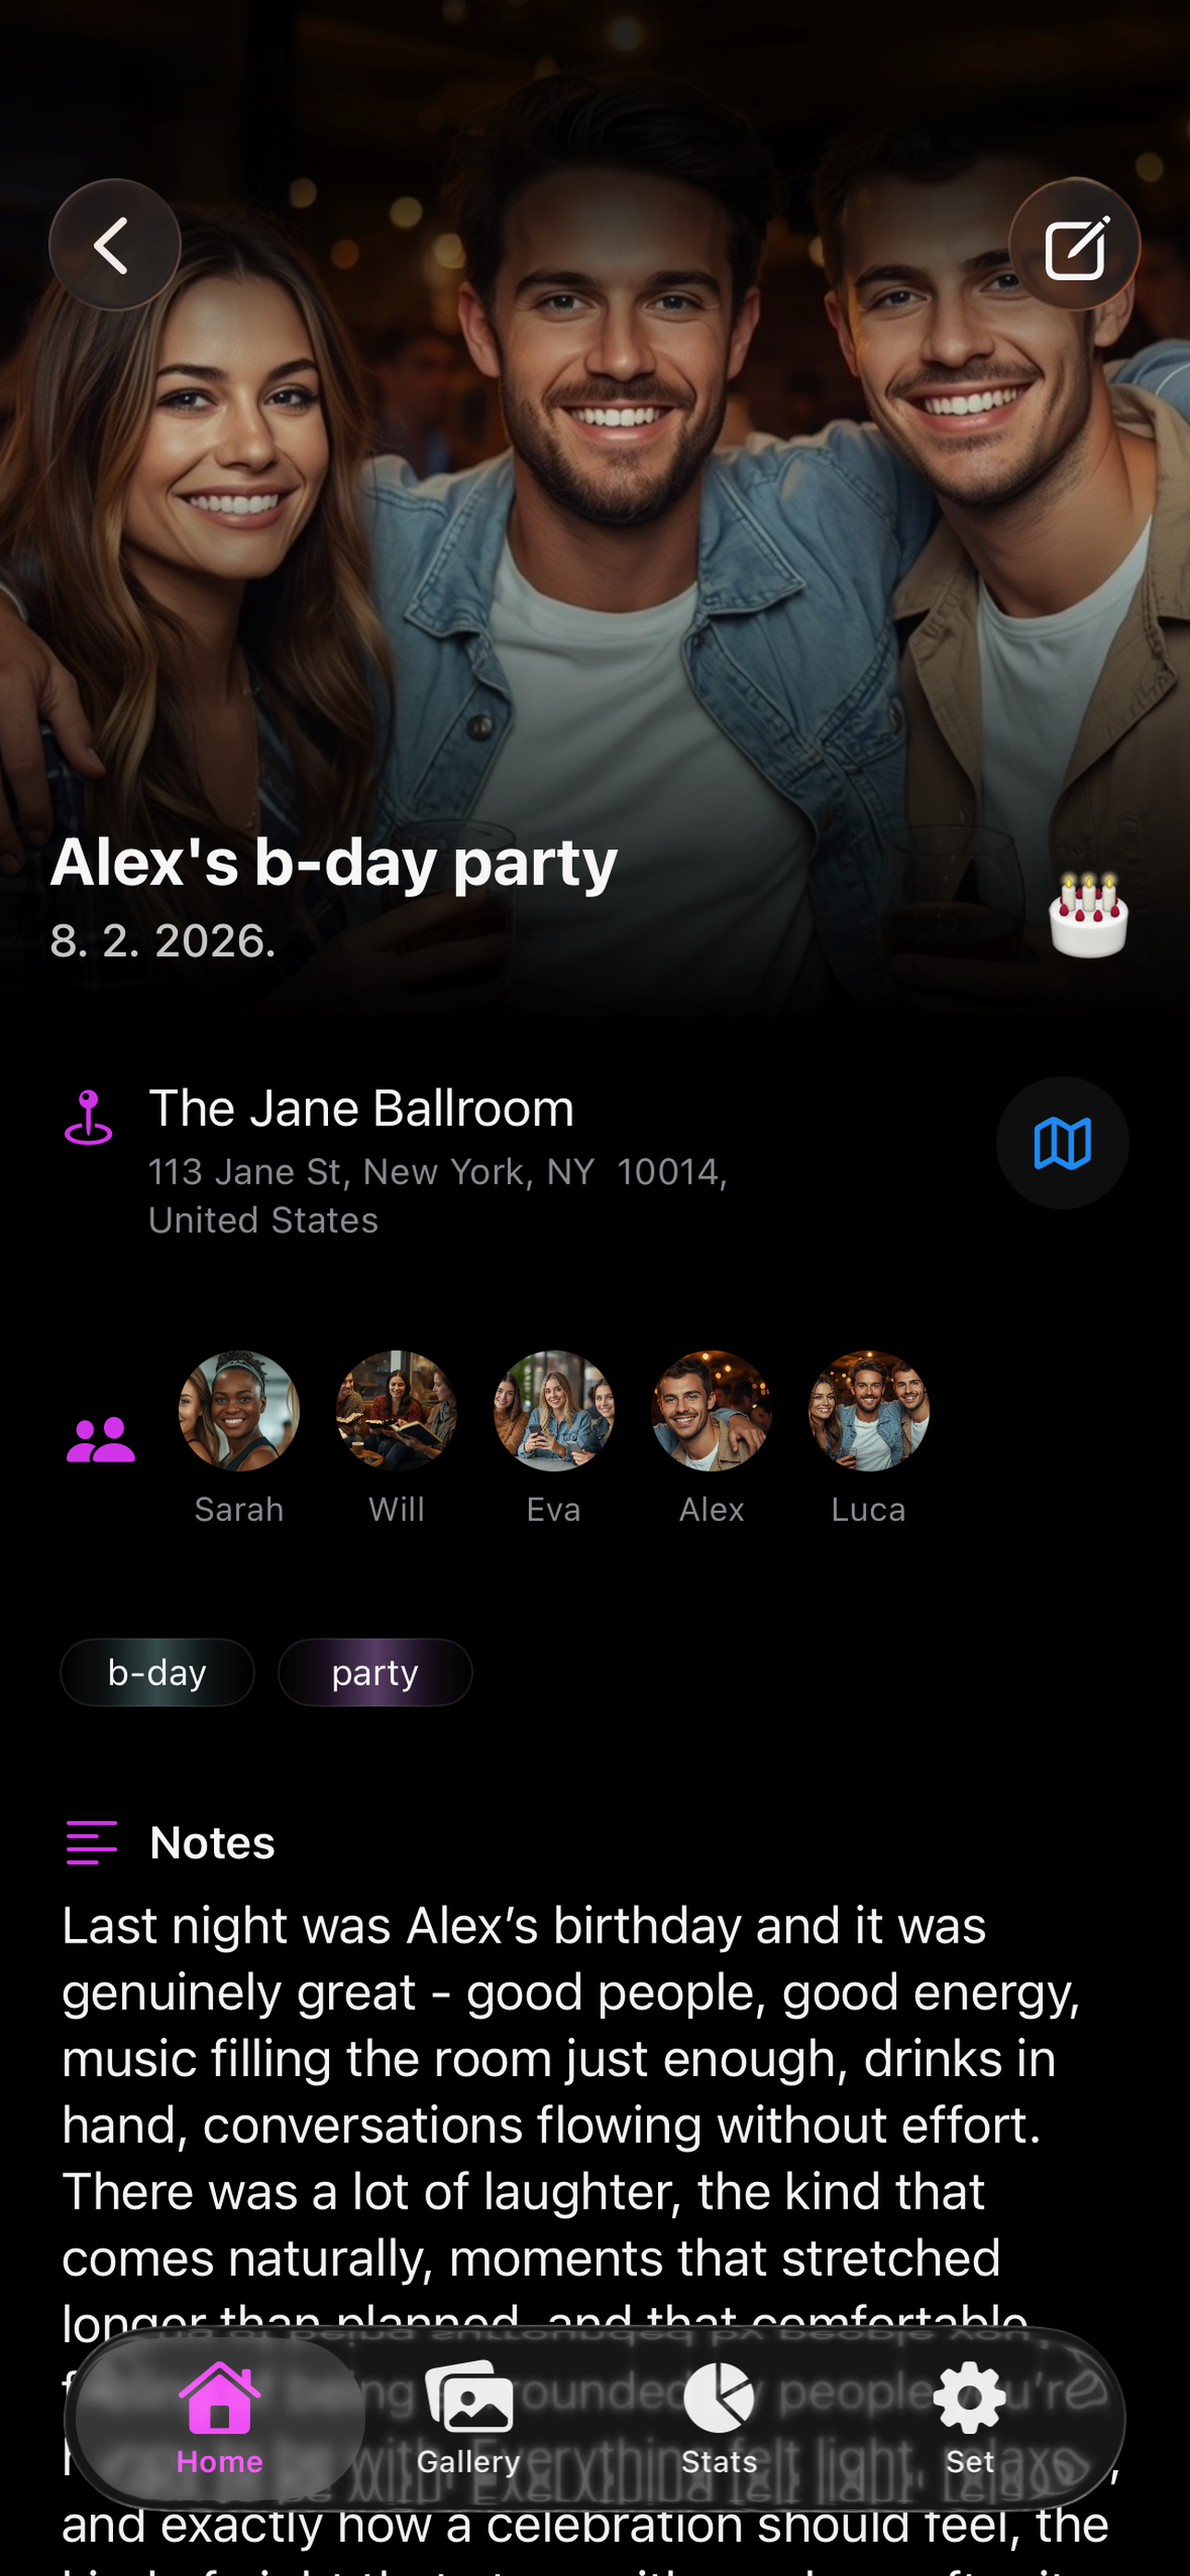
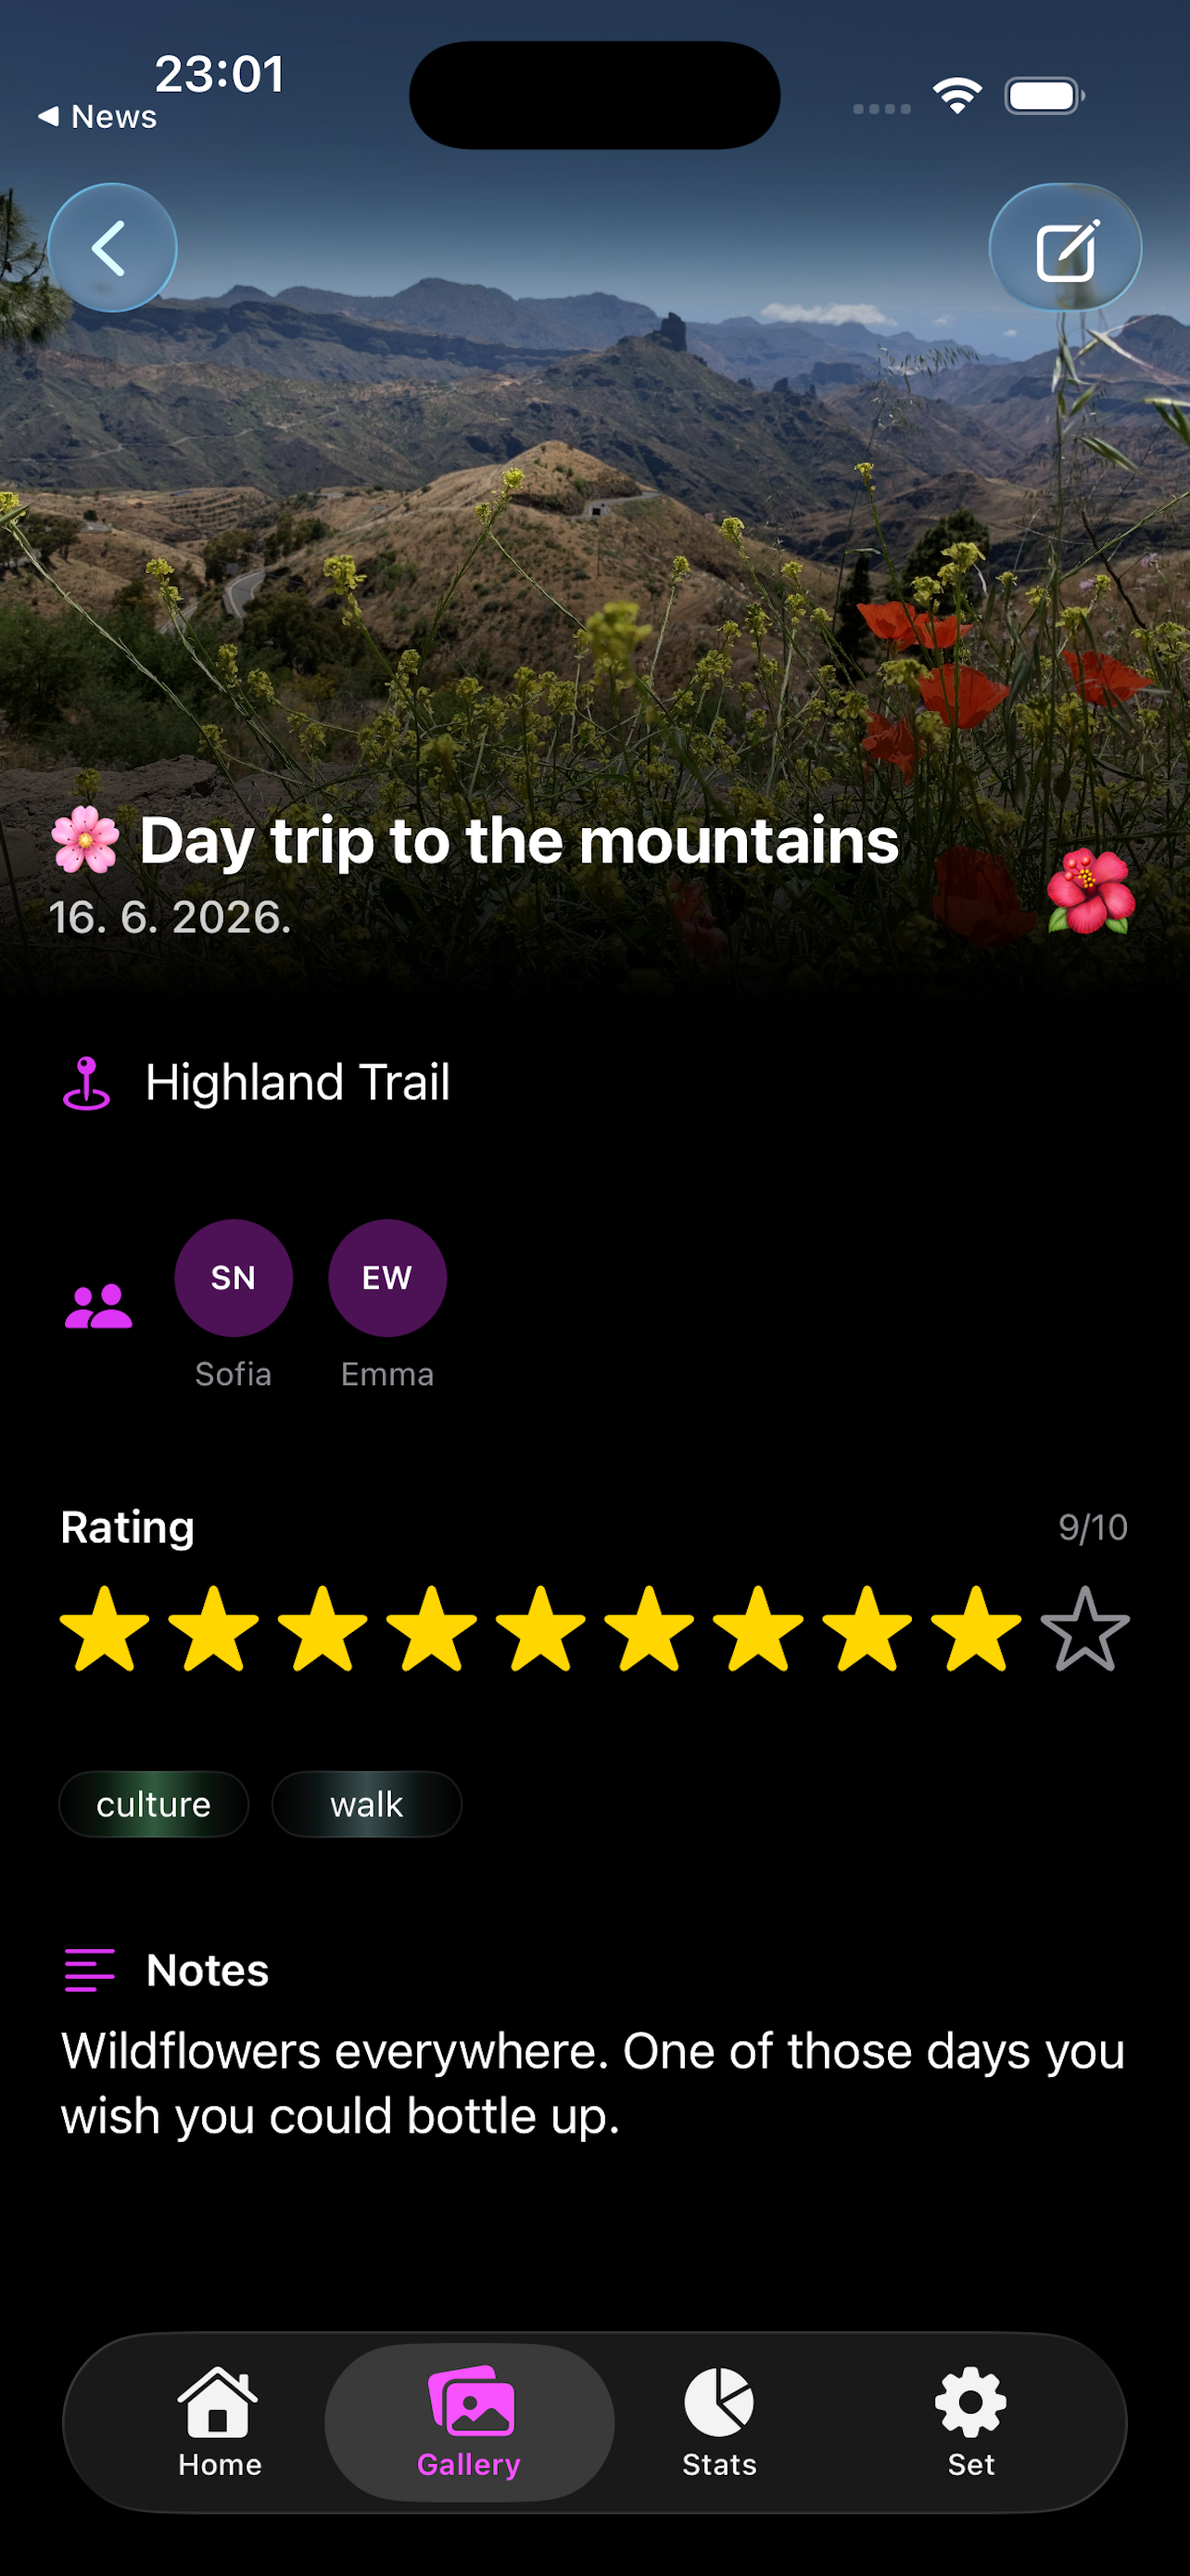
Update screenshots to showcase vibe rating feature, fix gallery grid layout
Swapped in newer screenshots showing the 1-10 vibe rating system (meetup detail,
people stats, stats overview, settings) and added two bonus gallery tiles.
Replaced the gallery's CSS-columns masonry with a plain grid since the
rotation transforms on tall phone mockups overflowed the column gap and
made the section look like an unordered pile.

diff --git a/index.html b/index.html
@@ -3,6 +3,7 @@
 <head>
     <meta charset="UTF-8">
     <meta name="google-site-verification" content="WIArLzKLhVrgi88NL-ijjHitehAWYXG4og9QnL3Act0">
+    <meta name="p:domain_verify" content="d47bdd5bb60178fb05fbc7b1d15cb7a7"/>
     <meta name="viewport" content="width=device-width, initial-scale=1.0">
 
     <!-- Primary SEO -->
@@ -173,14 +174,14 @@
                         <div class="phone-frame phone-sm">
                             <picture>
                                 <source srcset="assets/screenshots/007.webp" type="image/webp">
-                                <img src="assets/screenshots/007.png" alt="People stats showing top friends" loading="lazy" decoding="async">
+                                <img src="assets/screenshots/007.png" alt="People stats showing top friends ranked with their average vibe rating" loading="lazy" decoding="async">
                             </picture>
                         </div>
                     </div>
                     <div class="feature-copy">
                         <div class="feature-num">02</div>
                         <h3>Know your people</h3>
-                        <p>See who you spend the most time with, track when you last saw them, and notice who's slowly drifting away before it's too late.</p>
+                        <p>See who you spend the most time with, who you rate highest, and who's slowly drifting away before it's too late.</p>
                     </div>
                 </div>
 
@@ -234,19 +235,19 @@
 
                 <div class="story-card story-warm reveal">
                     <div class="story-top">
-                        <div class="story-tag">#night-walk</div>
+                        <div class="story-tag">#day-trip</div>
                         <div class="story-phone">
                             <div class="phone-frame phone-xs phone-tilt-r">
                                 <picture>
                                     <source srcset="assets/screenshots/003.webp" type="image/webp">
-                                    <img src="assets/screenshots/003.png" alt="Meetup detail screen" loading="lazy" decoding="async">
+                                    <img src="assets/screenshots/003.png" alt="Meetup detail screen with photo, notes and a 9 out of 10 vibe rating" loading="lazy" decoding="async">
                                 </picture>
                             </div>
                         </div>
                     </div>
                     <div class="story-copy">
-                        <h3>"We do this every Friday now, and I never want to forget a single one."</h3>
-                        <p>Log walks, dinners, spontaneous late-night drives - the small moments that quietly become your favorite memories.</p>
+                        <h3>"I rate every hangout now - it's wild seeing which places and people actually make the top of my list."</h3>
+                        <p>Rate the vibe, add notes, tag the moment - the small details that quietly become your favorite memories.</p>
                     </div>
                 </div>
 
@@ -257,7 +258,7 @@
                             <div class="phone-frame phone-xs phone-tilt-l">
                                 <picture>
                                     <source srcset="assets/screenshots/007.webp" type="image/webp">
-                                    <img src="assets/screenshots/007.png" alt="People stats" loading="lazy" decoding="async">
+                                    <img src="assets/screenshots/007.png" alt="People stats with vibe ratings" loading="lazy" decoding="async">
                                 </picture>
                             </div>
                         </div>
@@ -275,14 +276,14 @@
                             <div class="phone-frame phone-xs phone-tilt-r">
                                 <picture>
                                     <source srcset="assets/screenshots/005.webp" type="image/webp">
-                                    <img src="assets/screenshots/005.png" alt="Stats overview with calendar" loading="lazy" decoding="async">
+                                    <img src="assets/screenshots/005.png" alt="Stats overview with calendar and overall vibe score" loading="lazy" decoding="async">
                                 </picture>
                             </div>
                         </div>
                     </div>
                     <div class="story-copy">
                         <h3>"At the end of the year I could see my entire social life laid out like a story."</h3>
-                        <p>Streaks, top friends, favorite places, mood over time - your year, in stats that actually say something real.</p>
+                        <p>Streaks, top friends, favorite places, an average vibe score - your year, in stats that actually say something real.</p>
                     </div>
                 </div>
 
@@ -319,7 +320,7 @@
                     <div class="phone-frame phone-gallery">
                         <picture>
                             <source srcset="assets/screenshots/003.webp" type="image/webp">
-                            <img src="assets/screenshots/003.png" alt="Meetup detail view" loading="lazy" decoding="async">
+                            <img src="assets/screenshots/003.png" alt="Meetup detail view with vibe rating and notes" loading="lazy" decoding="async">
                         </picture>
                     </div>
                 </div>
@@ -335,7 +336,7 @@
                     <div class="phone-frame phone-gallery">
                         <picture>
                             <source srcset="assets/screenshots/005.webp" type="image/webp">
-                            <img src="assets/screenshots/005.png" alt="Stats overview with calendar" loading="lazy" decoding="async">
+                            <img src="assets/screenshots/005.png" alt="Stats overview with calendar and vibe score" loading="lazy" decoding="async">
                         </picture>
                     </div>
                 </div>
@@ -351,7 +352,7 @@
                     <div class="phone-frame phone-gallery">
                         <picture>
                             <source srcset="assets/screenshots/007.webp" type="image/webp">
-                            <img src="assets/screenshots/007.png" alt="People stats" loading="lazy" decoding="async">
+                            <img src="assets/screenshots/007.png" alt="People stats with vibe ratings" loading="lazy" decoding="async">
                         </picture>
                     </div>
                 </div>
@@ -375,7 +376,23 @@
                     <div class="phone-frame phone-gallery">
                         <picture>
                             <source srcset="assets/screenshots/010.webp" type="image/webp">
-                            <img src="assets/screenshots/010.png" alt="Settings screen" loading="lazy" decoding="async">
+                            <img src="assets/screenshots/010.png" alt="Settings screen with rating, money and mood tracking toggles" loading="lazy" decoding="async">
+                        </picture>
+                    </div>
+                </div>
+                <div class="gallery-item reveal" data-delay="600">
+                    <div class="phone-frame phone-gallery">
+                        <picture>
+                            <source srcset="assets/screenshots/012.webp" type="image/webp">
+                            <img src="assets/screenshots/012.png" alt="Stats screen showing tags, vibe score and meetups on a selected day" loading="lazy" decoding="async">
+                        </picture>
+                    </div>
+                </div>
+                <div class="gallery-item reveal" data-delay="660">
+                    <div class="phone-frame phone-gallery">
+                        <picture>
+                            <source srcset="assets/screenshots/013.webp" type="image/webp">
+                            <img src="assets/screenshots/013.png" alt="Settings showing report period and JSON export and import" loading="lazy" decoding="async">
                         </picture>
                     </div>
                 </div>
@@ -393,6 +410,7 @@
                 <ul class="stats-list">
                     <li><span class="check-dot"></span> Meetup frequency by week &amp; month</li>
                     <li><span class="check-dot"></span> Top people &amp; most active groups</li>
+                    <li><span class="check-dot"></span> Vibe rating per meetup &amp; person</li>
                     <li><span class="check-dot"></span> Mood trends over time</li>
                     <li><span class="check-dot"></span> Spending by occasion &amp; category</li>
                     <li><span class="check-dot"></span> Social streaks &amp; longest runs</li>
@@ -416,7 +434,7 @@
                 <div class="phone-frame phone-stats phone-tilt-l">
                     <picture>
                         <source srcset="assets/screenshots/005.webp" type="image/webp">
-                        <img src="assets/screenshots/005.png" alt="Stats overview" loading="lazy" decoding="async">
+                        <img src="assets/screenshots/005.png" alt="Stats overview with vibe score" loading="lazy" decoding="async">
                     </picture>
                 </div>
                 <div class="phone-frame phone-stats phone-tilt-r">

diff --git a/style.css b/style.css
@@ -607,24 +607,17 @@ h1, h2, h3, h4 {
     padding: 0 28px;
 }
 
-/* CSS columns masonry */
+/* Clean, even grid - no random tilts, so it reads as a deliberate catalog */
 .gallery-grid {
-    columns: 5;
-    column-gap: 16px;
+    display: grid;
+    grid-template-columns: repeat(6, 1fr);
+    gap: 20px;
 }
-.gallery-item {
-    break-inside: avoid;
-    margin-bottom: 16px;
-}
-/* Subtle alternating tilts for a scrapbook feel */
-.gallery-item:nth-child(3n+1) .phone-frame { transform: rotate(-1.5deg); }
-.gallery-item:nth-child(3n+2) .phone-frame { transform: rotate( 1.5deg); }
-.gallery-item:nth-child(3n)   .phone-frame { transform: rotate(-2.5deg); }
 .gallery-item .phone-frame {
     transition: transform 0.3s ease, box-shadow 0.3s ease;
 }
 .gallery-item:hover .phone-frame {
-    transform: rotate(0deg) scale(1.03) !important;
+    transform: scale(1.04);
     box-shadow: 0 24px 48px rgba(204, 68, 255, 0.25);
 }
 
@@ -1064,7 +1057,7 @@ h1, h2, h3, h4 {
     .stats-phones {
         justify-content: center;
     }
-    .gallery-grid { columns: 4; }
+    .gallery-grid { grid-template-columns: repeat(4, 1fr); }
     .blog-grid { grid-template-columns: 1fr 1fr; }
     .blog-grid .blog-card:last-child { grid-column: 1 / -1; max-width: 600px; margin: 0 auto; width: 100%; }
     .quiz-card { flex-direction: column; align-items: flex-start; padding: 28px 28px; }
@@ -1096,7 +1089,7 @@ h1, h2, h3, h4 {
     .stories-grid { grid-template-columns: 1fr; }
     .stories-grid .story-card:last-child { max-width: 100%; }
 
-    .gallery-grid { columns: 3; }
+    .gallery-grid { grid-template-columns: repeat(3, 1fr); gap: 12px; }
     .blog-grid { grid-template-columns: 1fr; }
     .blog-grid .blog-card:last-child { grid-column: auto; max-width: 100%; }
     .quiz-card { flex-direction: column; align-items: flex-start; }
@@ -1114,7 +1107,7 @@ h1, h2, h3, h4 {
     .hero-badge { display: none; }
     .phone-hero { width: 220px; }
 
-    .gallery-grid { columns: 2; }
+    .gallery-grid { grid-template-columns: repeat(2, 1fr); gap: 10px; }
 
     .features, .stories, .gallery-section,
     .stats-section, .cta-section { padding: 72px 0; }

diff --git a/CLAUDE.md b/CLAUDE.md
@@ -12,10 +12,12 @@ SocialLife Diary is a personal social life tracker. You log meetups, the people 
 
 Key features:
 - Log meetups with date, place, photo, mood, notes, and expenses
+- Rate every meetup's vibe (1-10) and see average ratings per person and overall
 - Track which people you see most (and when you last saw them)
 - Map view of all your social places
-- Stats: meetup frequency, top people, spending, mood over time, social streaks
+- Stats: meetup frequency, top people, vibe ratings, spending, mood over time, social streaks
 - Photo gallery of memories
+- Export/import your data as JSON, generate PDF reports
 - Private — everything stays on your device
 
 Tagline ideas: "Your social life, made visible." / "Remember everything. Miss nothing." / "Track who you see. See who matters."
@@ -38,17 +40,20 @@ Tagline ideas: "Your social life, made visible." / "Remember everything. Miss no
 6. **Download CTA** — big, bold, App Store button
 
 ## Screenshots Available
-Files: 001.png through 010.png (in /assets/screenshots/ folder)
+Files: 001.png through 013.png (in /assets/screenshots/ folder)
 - 001: Home feed (list of meetups)
 - 002: New meetup form
-- 003: Meetup detail (Alex's b-day party)
+- 003: Meetup detail (day trip, with vibe rating + notes)
 - 004: Photo gallery grid
-- 005: Stats overview with calendar
+- 005: Stats overview with calendar + vibe score card
 - 006: Stats detail (overview, social streak)
-- 007: People stats
+- 007: People stats with per-person vibe ratings
 - 008: Places map
 - 009: Tags stats
-- 010: Settings
+- 010: Settings (rating, money, mood, drinks toggles)
+- 011: PDF report export (unused on site currently)
+- 012: Stats screen scrolled to tags/vibes/calendar + meetups on selected day
+- 013: Settings scrolled to stats period + JSON export/import
 
 ## File Structure
 ```
@@ -57,7 +62,7 @@ style.css
 script.js
 assets/
   screenshots/
-    001.png ... 010.png
+    001.png ... 013.png
 ```
 
 ## Rules for Claude Code
